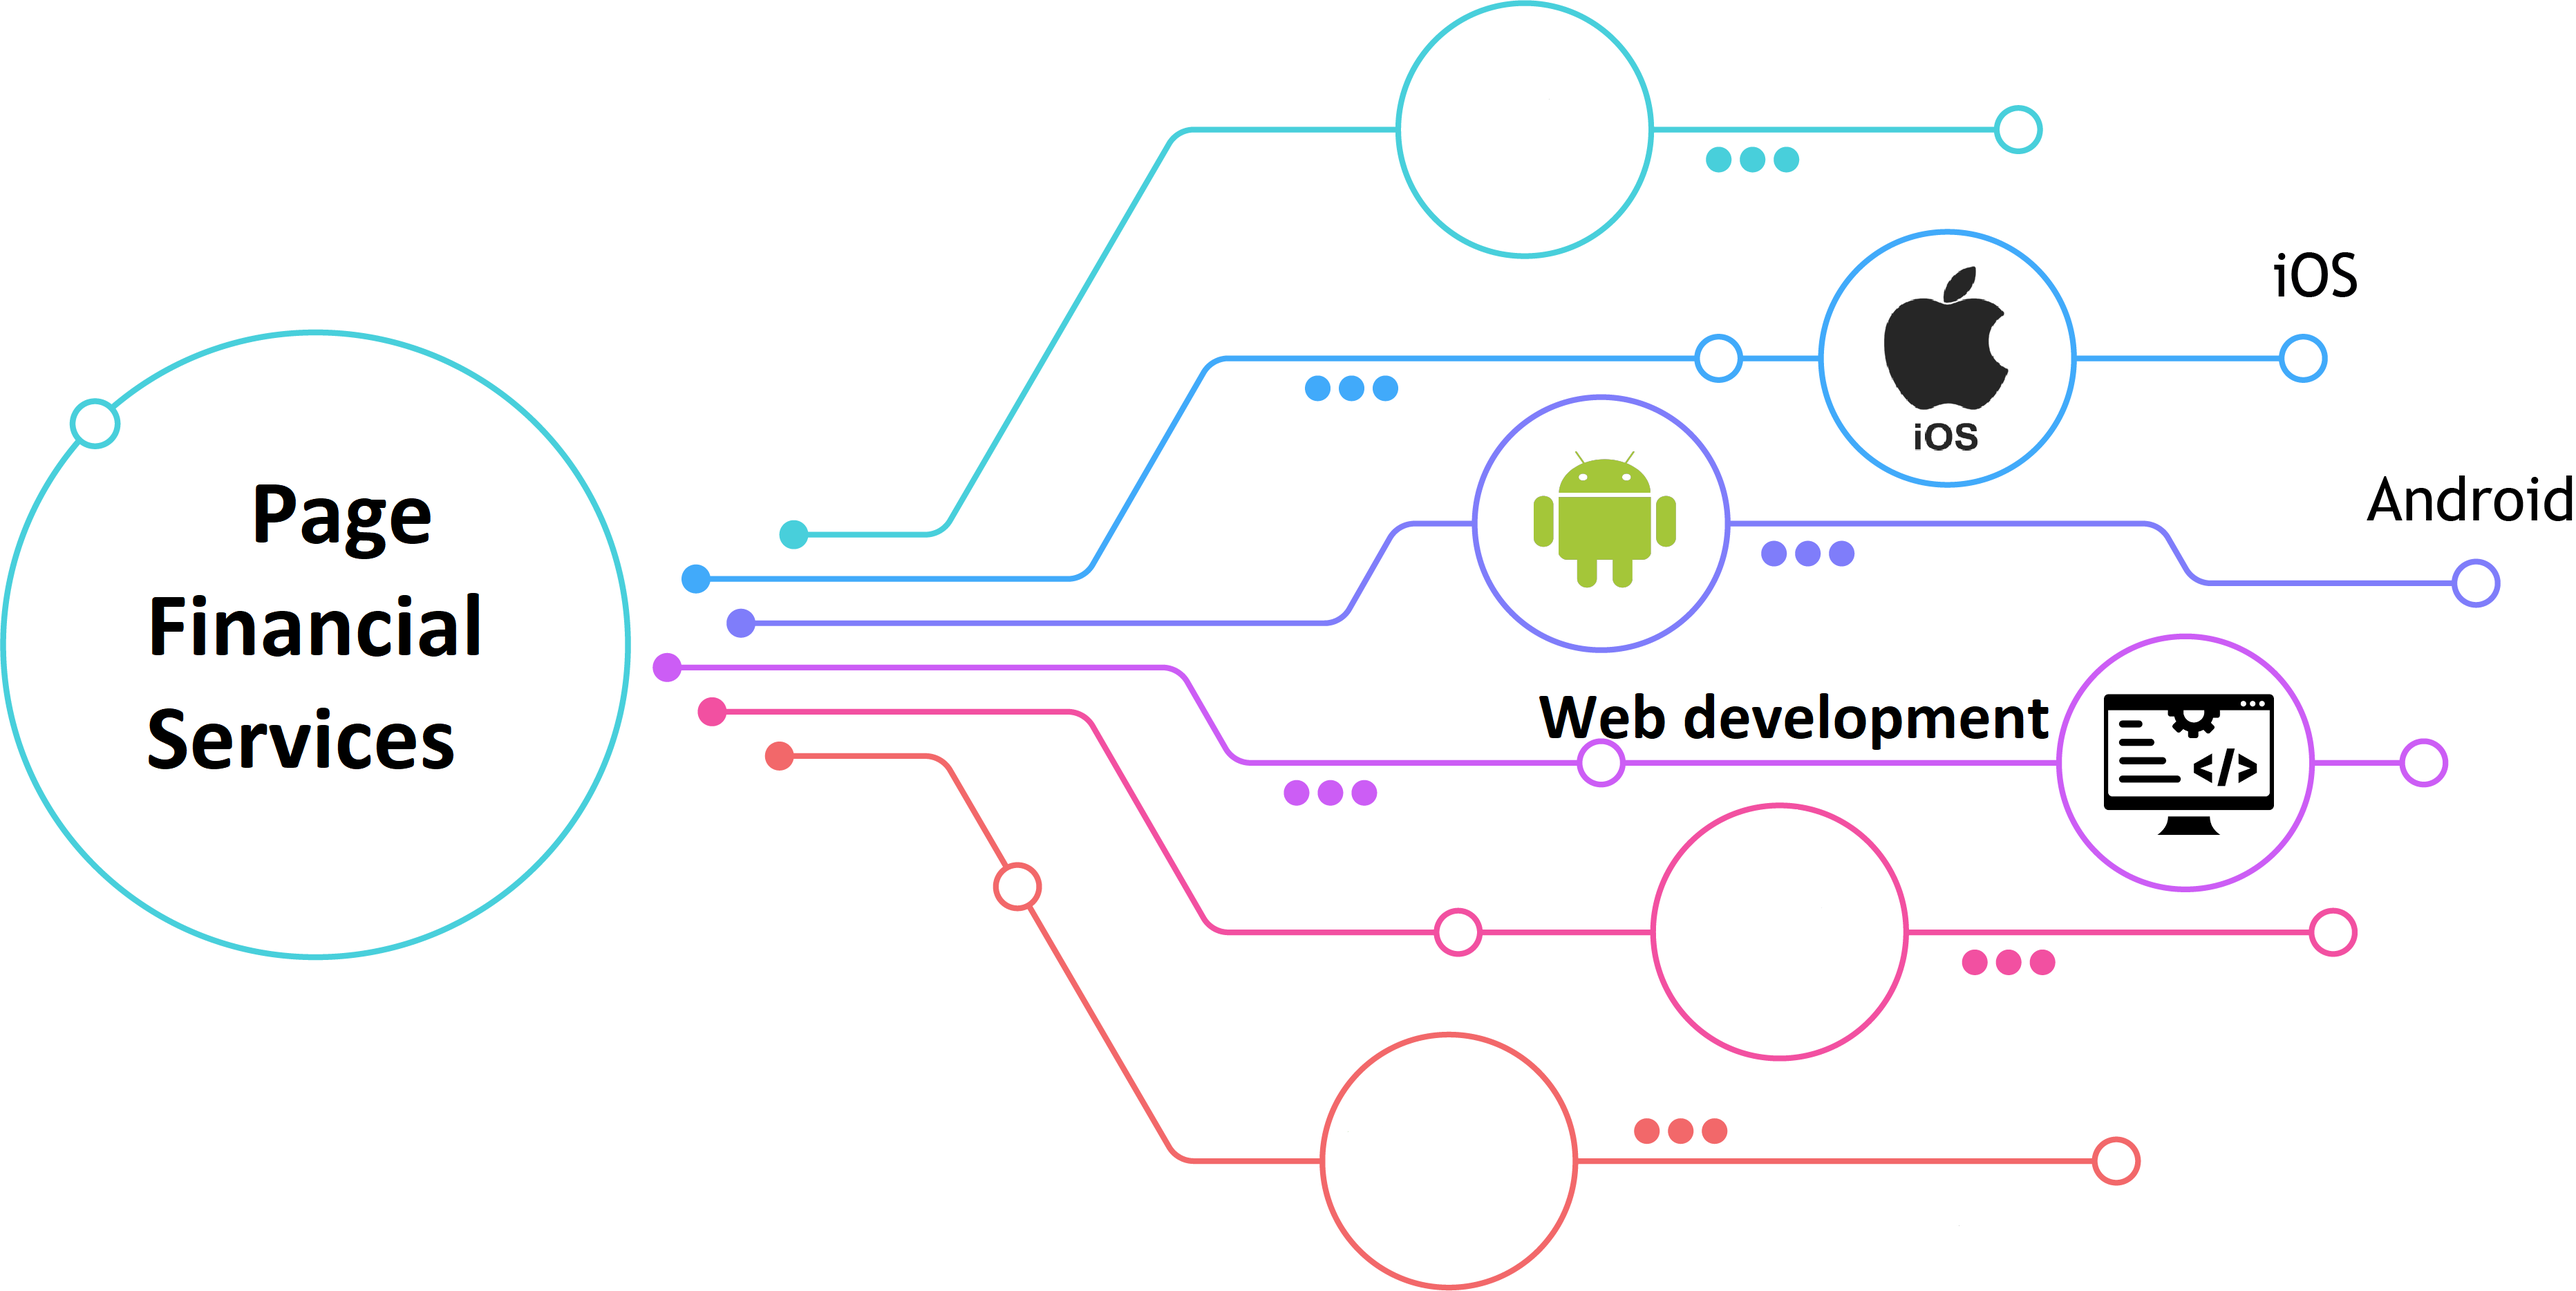
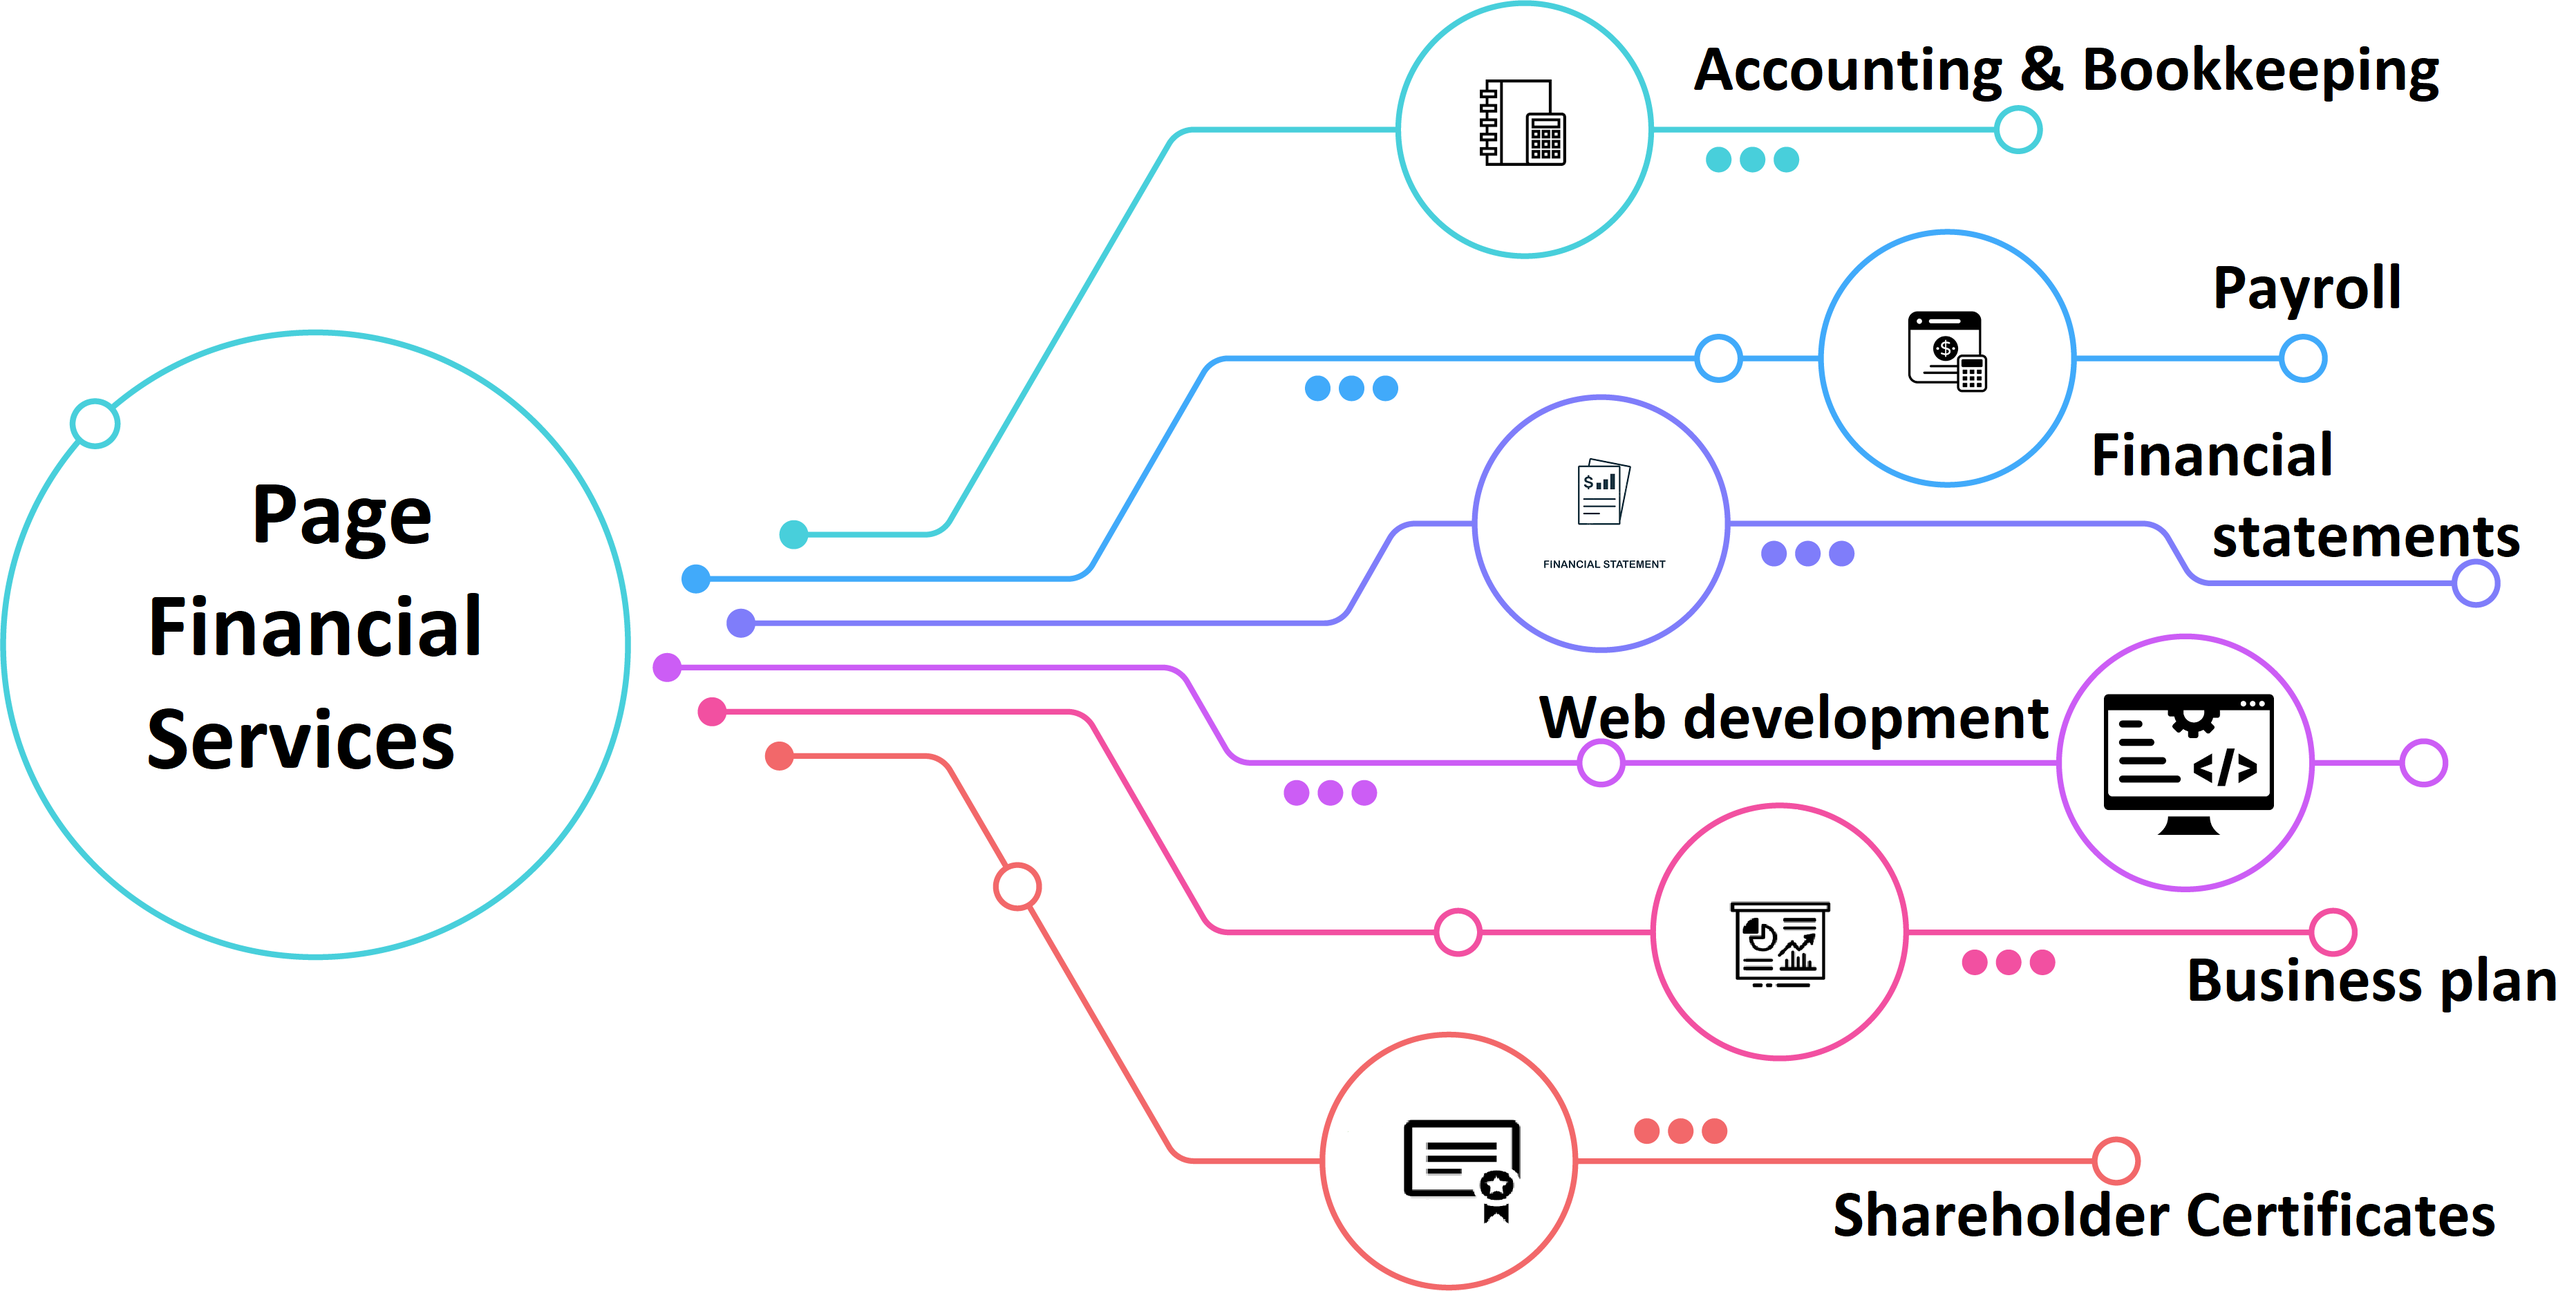
Page

diff --git a/src/components/ProductsnSolutions.js b/src/components/ProductsnSolutions.js
@@ -53,9 +53,10 @@ export const ProductsnSolutions = () => {
                 <FaRegNewspaper className="i" />
                 <h3>Accounting & Bookkeeping</h3>
                 <p>
-                  Lorem iefnoewijnf wefweiofnieof fewfneof ciwejof cjewcnpe
-                  cieoifwojjcew efejoewjfwoefjenefopewfp cewinof evchehoe
-                  saoadnowqe ewfiewofjfreww wv
+                  The purpose of bookkeeping is to maintain a systematic record
+                  of financial activities and transactions chronologically. The
+                  purpose of accounting is to report the financial strength and
+                  obtain the results of the operating activity of a business
                 </p>
                 <a>Learn more</a>
               </div>
@@ -66,9 +67,10 @@ export const ProductsnSolutions = () => {
                 <FaChartLine className="i" />
                 <h3>Payroll Services</h3>
                 <p>
-                  Lorem iefnoewijnf wefweiofnieof fewfneof ciwejof cjewcnpe
-                  cieoifwojjcew efejoewjfwoefjenefopewfp cewinof evchehoe
-                  saoadnowqe ewfiewofjfreww wv
+                  In South Africa, there is no set payroll cycle. The payroll
+                  cycle is typically stipulated in the employment contract,
+                  which is to be agreed upon by the employee and employer. The
+                  payroll cycle can run monthly, weekly, or bi-weekly.
                 </p>
                 <a>Learn more</a>
               </div>
@@ -79,9 +81,11 @@ export const ProductsnSolutions = () => {
                 <FaCode className="i" />
                 <h3>Web Development</h3>
                 <p>
-                  Lorem iefnoewijnf wefweiofnieof fewfneof ciwejof cjewcnpe
-                  cieoifwojjcew efejoewjfwoefjenefopewfp cewinof evchehoe
-                  saoadnowqe ewfiewofjfreww wv
+                  A more comprehensive list of tasks to which Web development
+                  commonly refers, may include Web engineering, Web design, Web
+                  content development, client liaison, client-side/server-side
+                  scripting, Web server and network security configuration, and
+                  e-commerce development.
                 </p>
                 <a>Learn more</a>
               </div>
@@ -129,9 +133,10 @@ export const ProductsnSolutions = () => {
                 <FaBuilding className="i" />
                 <h3>Business plan & Consulting</h3>
                 <p>
-                  Lorem iefnoewijnf wefweiofnieof fewfneof ciwejof cjewcnpe
-                  cieoifwojjcew efejoewjfwoefjenefopewfp cewinof evchehoe
-                  saoadnowqe ewfiewofjfreww wv
+                  Company's objectives and how it plans to achieve its goals. A
+                  business plan lays out a written road map for the firm from
+                  marketing, financial, and operational standpoints. Both
+                  startups and established companies use business plans.
                 </p>
                 <a>Learn more</a>
               </div>
@@ -147,9 +152,10 @@ export const ProductsnSolutions = () => {
                 <FaShare className="i" />
                 <h3>Shareholder Certificates</h3>
                 <p>
-                  Lorem iefnoewijnf wefweiofnieof fewfneof ciwejof cjewcnpe
-                  cieoifwojjcew efejoewjfwoefjenefopewfp cewinof evchehoe
-                  saoadnowqe ewfiewofjfreww wv
+                  Share certificates are documents issued by companies that sell
+                  shares in the market. A shareholder receives a share
+                  certificate as a receipt of his or her purchase and to reflect
+                  ownership of a specified number of shares of the company.
                 </p>
                 <a>Learn more</a>
               </div>
@@ -160,9 +166,10 @@ export const ProductsnSolutions = () => {
                 <FaAddressBook className="i" />
                 <h3>Company Profiles,Branding, Logo</h3>
                 <p>
-                  Lorem iefnoewijnf wefweiofnieof fewfneof ciwejof cjewcnpe
-                  cieoifwojjcew efejoewjfwoefjenefopewfp cewinof evchehoe
-                  saoadnowqe ewfiewofjfreww wv
+                  A company profile document is a key asset to advertising who
+                  your company is and what your services are. It is also a vital
+                  asset to your business that can help you stand out from the
+                  competition.
                 </p>
                 <a>Learn more</a>
               </div>
@@ -173,9 +180,10 @@ export const ProductsnSolutions = () => {
                 <FaGraduationCap className="i" />
                 <h3>Letter of Good Standing</h3>
                 <p>
-                  Lorem iefnoewijnf wefweiofnieof fewfneof ciwejof cjewcnpe
-                  cieoifwojjcew efejoewjfwoefjenefopewfp cewinof evchehoe
-                  saoadnowqe ewfiewofjfreww wv
+                  Letter of Good Standing is essentially an official document
+                  that proves the Workman's Compensation Fund (COID) will assist
+                  you in paying for any work-related injuries or harm to your
+                  employees, because your payments to the fund are up to date.
                 </p>
                 <a>Learn more</a>
               </div>

diff --git a/src/components/Navbar.js b/src/components/Navbar.js
@@ -2,6 +2,7 @@ import React, { useRef } from "react";
 import { FaBars, FaTimes, FaReact } from "react-icons/fa";
 import "./styles/navbar.css";
 import { useNavigate } from "react-router-dom";
+import iconImg from "../assets/Page icon.png"
 
 function Navbar() {
   const navigate = useNavigate();
@@ -20,7 +21,7 @@ function Navbar() {
   return (
     <div className="container">
       {/* Renders a react icon with the size of 40px */}
-      <FaReact size={40} />
+      <img src={iconImg} className="imgIcon" />
       {/* Sets the navRef as a reference to the nav element */}
       <nav ref={navRef}>
         <a onClick={() => navigate("/")}>HOME</a>

diff --git a/src/components/styles/navbar.css b/src/components/styles/navbar.css
@@ -79,3 +79,6 @@ nav {
 		font-size: 1.5rem;
 	}
 }
+.imgIcon {
+	height: 50px;
+}
